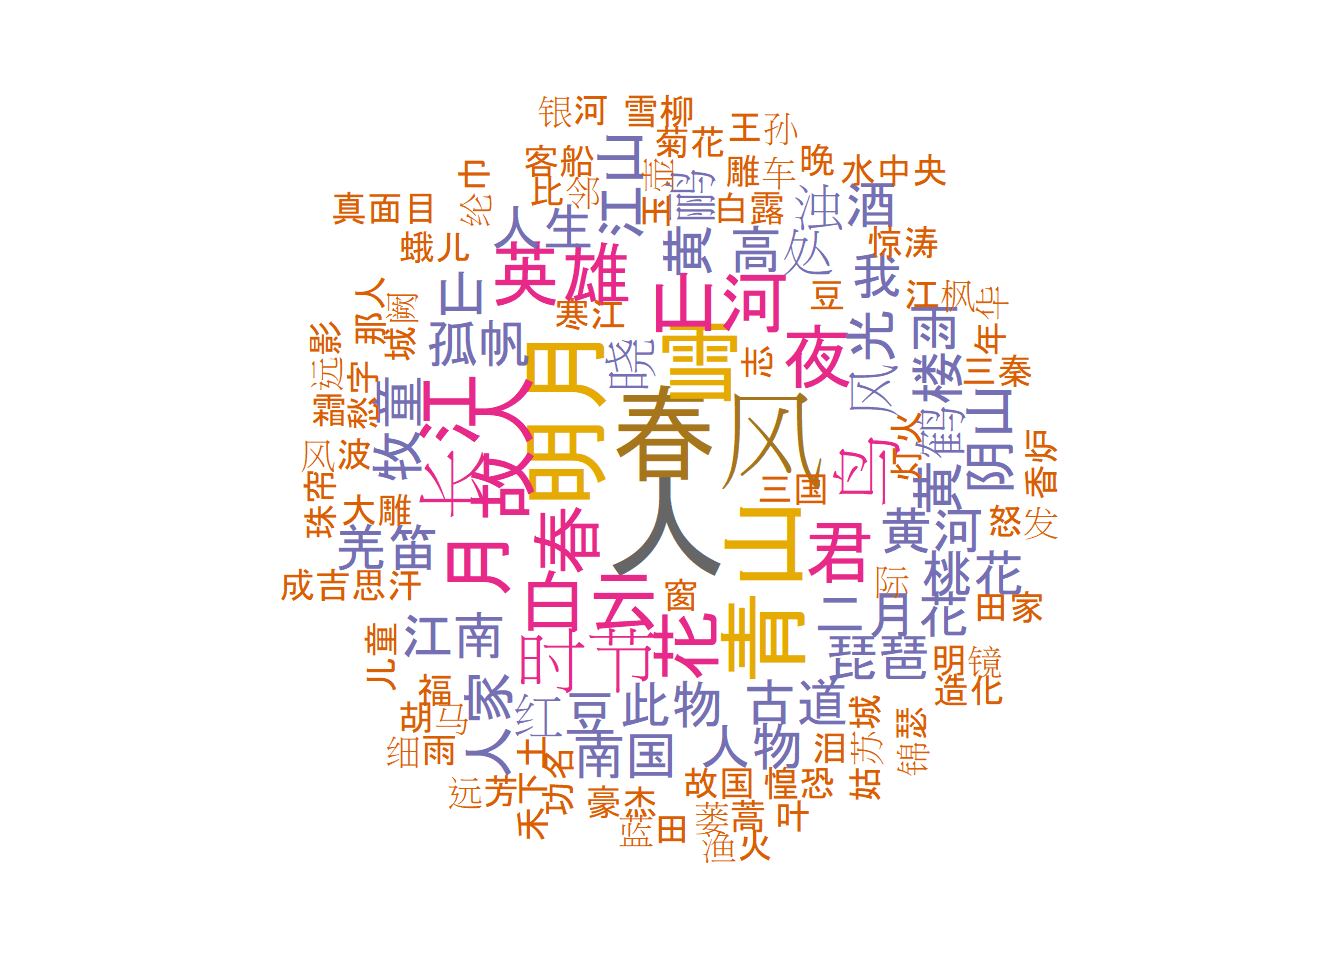
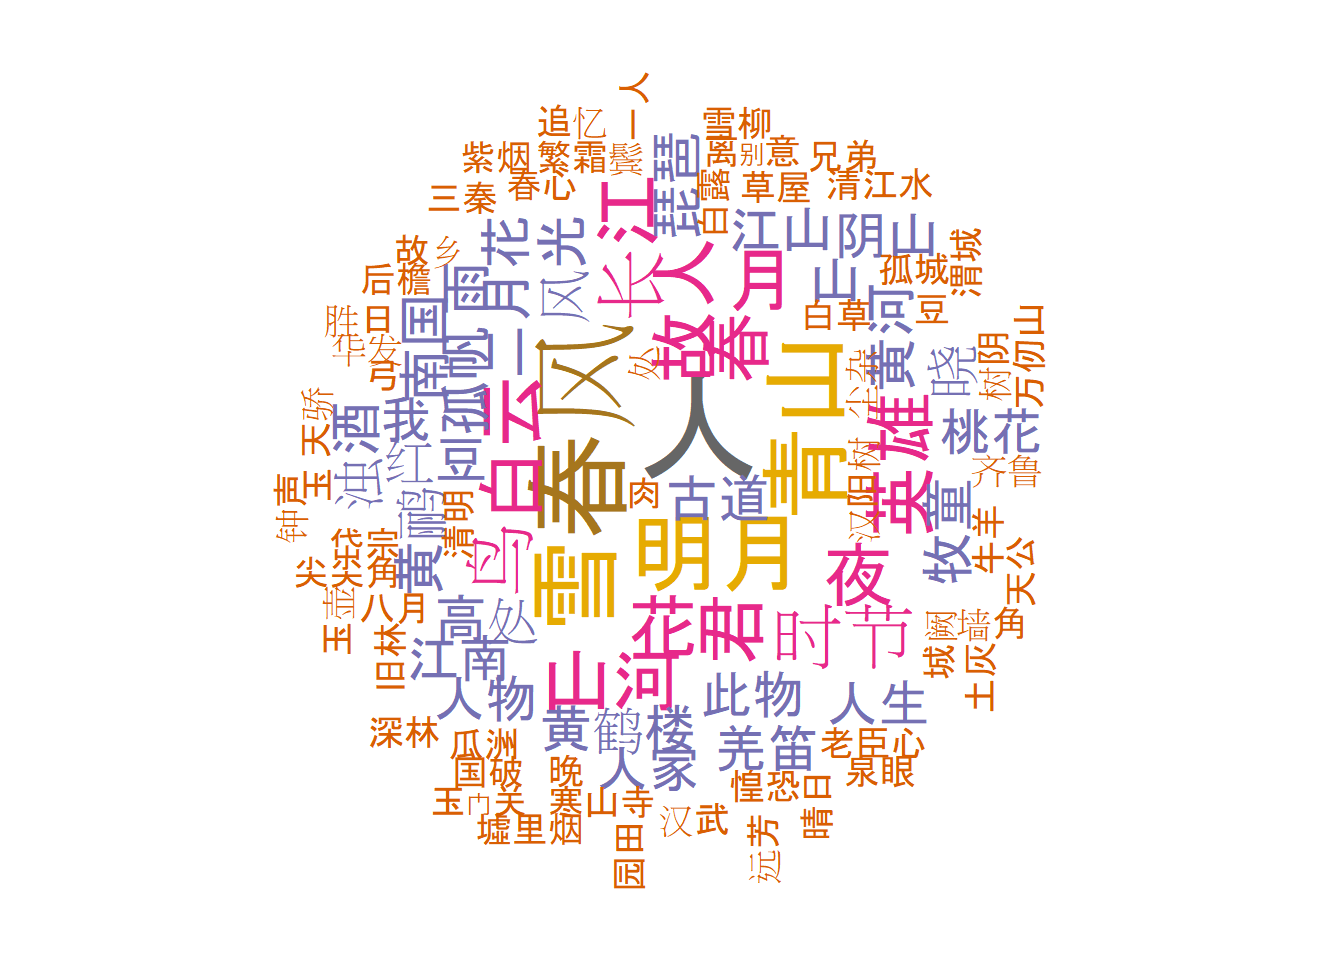
update of acp contents and add ch_history Rmd

Changed region(s): [[0.1875, 0.0938, 0.7812, 0.9375]]

diff --git a/acp.html b/acp.html
@@ -9,8 +9,9 @@
 <meta http-equiv="X-UA-Compatible" content="IE=EDGE" />
 
 
-<meta name="author" content="Shuo Yang" />
+<meta name="author" content="DigitCoral" />
 
+<meta name="date" content="2025-01-18" />
 
 <title>Ancient Chinese Poems</title>
 
@@ -301,8 +302,8 @@ $(document).ready(function () {
 
 
 <h1 class="title toc-ignore">Ancient Chinese Poems</h1>
-<h4 class="author">Shuo Yang</h4>
-<h4 class="date">1/18/2025</h4>
+<h4 class="author">DigitCoral</h4>
+<h4 class="date">2025-01-18</h4>
 
 </div>
 
@@ -316,54 +317,54 @@ style="color:red">1626</span>首中国古诗词。它们每一首都是文化艺
 </div>
 <div
 id="i-have-collected-1626-ancient-chinese-poems-ranging-from-early-zhou-dynasty-1000bc-to-new-prc-established-1949ad.-each-of-them-is-a-treasure-of-culture.-then-i-marked-out-the-nouns-pronouns-verbs-adjectives-adverbs-quantifiers-words-then-do-the-exploration-like-the-word-cloud-etc.-the-data-are-also-good-for-ai-learning-which-may-help-create-new-charming-poems"
-class="section level3">
-<h3><strong><em>I have collected <span style="color:red">1626</span>
+class="section level4">
+<h4><strong><em>I have collected <span style="color:red">1626</span>
 ancient Chinese poems, ranging from early Zhou Dynasty (~1000BC) to new
 PRC established (~1949AD). Each of them is a treasure of culture. Then I
 marked out the nouns, pronouns, verbs, adjectives, adverbs &amp;
 quantifiers words, then do the exploration, like the word cloud, etc.
 The data are also good for AI learning, which may help create new
-charming poems…</em></strong></h3>
+charming poems…</em></strong></h4>
 <hr />
+</div>
+<div id="古诗中的名词代词的高频词" class="section level4">
+<h4><strong><em>古诗中的名词、代词的高频词</em></strong></h4>
 </div>
 <div
 id="the-word-cloud-of-the-nouns-or-pronouns-used-in-ancient-chinese-poems"
-class="section level3">
-<h3><strong><em>The word cloud of the nouns or pronouns used in ancient
-Chinese poems</em></strong></h3>
-<div id="古诗中的名词代词的高频词" class="section level4">
-<h4><strong><em>古诗中的名词、代词的高频词</em></strong></h4>
+class="section level4">
+<h4><strong><em>The word cloud of the nouns or pronouns used in ancient
+Chinese poems</em></strong></h4>
 <p><img src="acp_files/figure-html/dataClean-1.png" width="672" /></p>
 </div>
+<div id="古诗中的动词的高频词" class="section level3">
+<h3><strong><em>古诗中的动词的高频词</em></strong></h3>
 </div>
 <div id="the-word-cloud-of-the-verbs-used-in-ancient-chinese-poems"
 class="section level3">
 <h3><strong><em>The word cloud of the verbs used in ancient Chinese
 poems</em></strong></h3>
-<div id="古诗中的动词的高频词" class="section level4">
-<h4><strong><em>古诗中的动词的高频词</em></strong></h4>
 <p><img src="acp_files/figure-html/verbPart-1.png" width="672" /></p>
 </div>
+<div id="古诗中的形容词副词的高频词" class="section level3">
+<h3><strong><em>古诗中的形容词、副词的高频词</em></strong></h3>
 </div>
 <div
 id="the-word-cloud-of-the-adjectives-adverbs-used-in-ancient-chinese-poems"
 class="section level3">
 <h3><strong><em>The word cloud of the adjectives, adverbs used in
 ancient Chinese poems</em></strong></h3>
-<div id="古诗中的形容词副词的高频词" class="section level4">
-<h4><strong><em>古诗中的形容词、副词的高频词</em></strong></h4>
 <p><img src="acp_files/figure-html/adjPart-1.png" width="672" /></p>
 </div>
+<div id="古诗中的量词的高频词" class="section level3">
+<h3><strong><em>古诗中的量词的高频词</em></strong></h3>
 </div>
 <div
 id="the-word-cloud-of-the-quantifiers-used-in-ancient-chinese-poems"
 class="section level3">
 <h3><strong><em>The word cloud of the quantifiers used in ancient
 Chinese poems</em></strong></h3>
-<div id="古诗中的量词的高频词" class="section level4">
-<h4><strong><em>古诗中的量词的高频词</em></strong></h4>
 <p><img src="acp_files/figure-html/quantPart-1.png" width="672" /></p>
-</div>
 </div>
 
 
